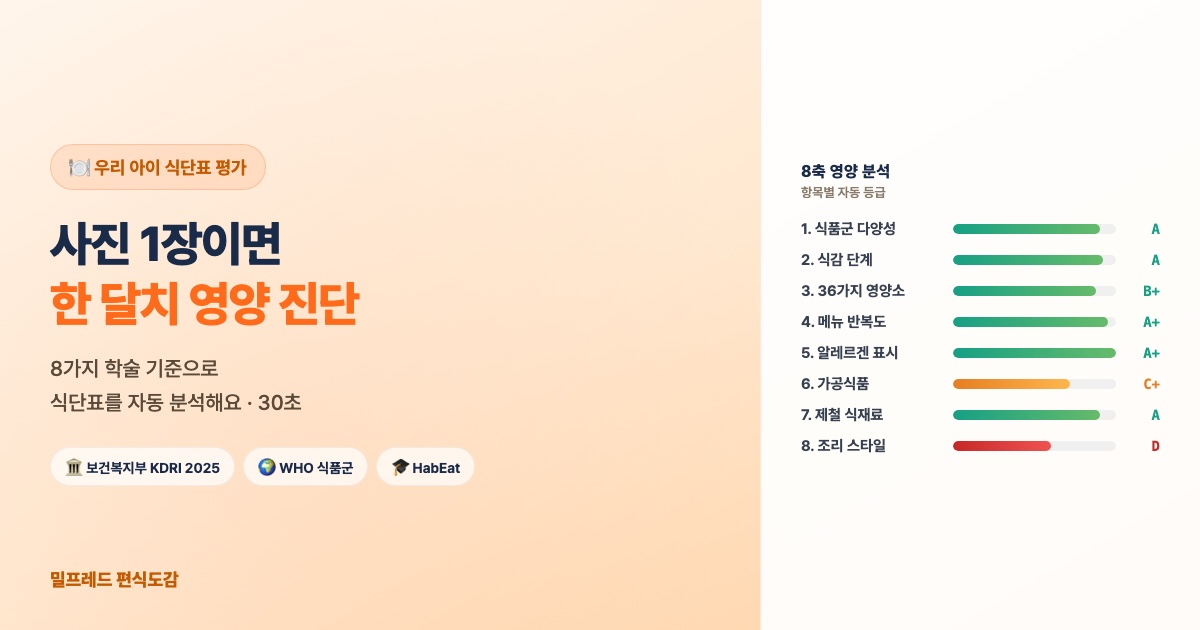
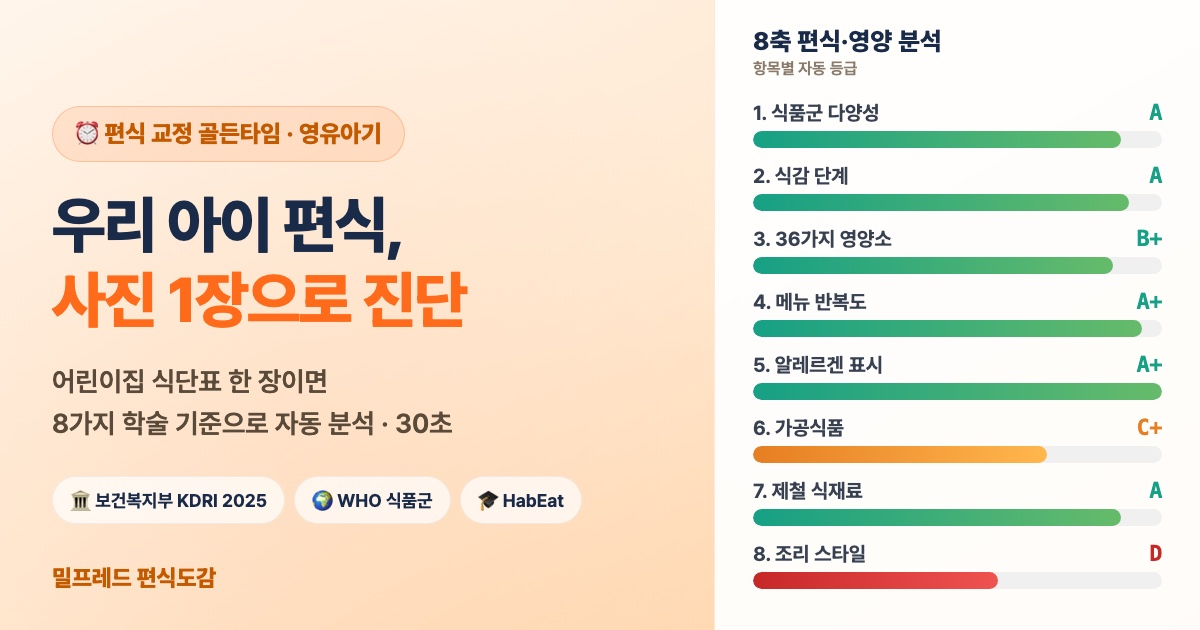
og: daycare-eval OG 이미지 개편 — 폰트 확대 + 편식 키워드 + 우측 분석결과 확대(라벨 게이지바 위 스택)
- 템플릿 폰트 전체 확대(h1 48→62 등), '편식 교정 골든타임'·'우리 아이 편식' 키워드 추가
- 우측 8축 패널 440→486px, 게이지바 두껍게, 라벨을 바 위로 스택해 확대
- og:image ?v=6 → ?v=7 (캐시 무효화)

diff --git a/samples/og-daycare-template.html b/samples/og-daycare-template.html
@@ -11,24 +11,25 @@
   .og::before{content:'';position:absolute;inset:0;background:radial-gradient(circle at 25% 75%,rgba(255,120,50,0.08),transparent 50%)}
 
   /* 왼쪽: 타이틀 */
-  .left{flex:1;padding:64px 50px;display:flex;flex-direction:column;justify-content:center;position:relative;z-index:1}
-  .tag{display:inline-block;background:rgba(255,107,26,0.12);color:#C45A00;padding:8px 18px;border-radius:100px;font-size:18px;font-weight:700;margin-bottom:24px;width:fit-content;border:1px solid rgba(255,107,26,0.25)}
-  .left h1{font-size:48px;font-weight:800;color:#1a2b4a;line-height:1.25;letter-spacing:-0.03em;margin-bottom:18px}
+  .left{flex:1;padding:58px 52px;display:flex;flex-direction:column;justify-content:center;position:relative;z-index:1}
+  .tag{display:inline-block;background:rgba(255,107,26,0.12);color:#C45A00;padding:11px 22px;border-radius:100px;font-size:24px;font-weight:800;margin-bottom:26px;width:fit-content;border:1px solid rgba(255,107,26,0.28)}
+  .left h1{font-size:62px;font-weight:800;color:#1a2b4a;line-height:1.22;letter-spacing:-0.03em;margin-bottom:22px}
   .left h1 .accent{color:#FF6B1A}
-  .left p{font-size:21px;color:#5a4a3a;font-weight:500;line-height:1.6;margin-bottom:28px}
-  .sources{display:flex;gap:8px;flex-wrap:wrap}
-  .src-pill{background:rgba(255,255,255,0.7);color:#1a2b4a;padding:7px 14px;border-radius:100px;font-size:14px;font-weight:700;border:1px solid rgba(0,0,0,0.05)}
-  .brand{position:absolute;bottom:40px;left:50px;font-size:18px;font-weight:800;color:#C45A00}
+  .left p{font-size:27px;color:#5a4a3a;font-weight:600;line-height:1.55;margin-bottom:32px}
+  .sources{display:flex;gap:9px;flex-wrap:wrap}
+  .src-pill{background:rgba(255,255,255,0.7);color:#1a2b4a;padding:9px 17px;border-radius:100px;font-size:18px;font-weight:700;border:1px solid rgba(0,0,0,0.05)}
+  .brand{position:absolute;bottom:38px;left:52px;font-size:23px;font-weight:800;color:#C45A00}
 
-  /* 오른쪽: 8축 등급표 세로 */
-  .right{width:440px;padding:44px 40px;background:rgba(255,255,255,0.92);border-left:1px solid rgba(255,107,26,0.15);display:flex;flex-direction:column;justify-content:center;position:relative;z-index:1}
-  .right .rt{font-size:16px;font-weight:800;color:#1a2b4a;margin-bottom:4px;letter-spacing:0.02em}
-  .right .rsub{font-size:13px;color:#8a7a6a;font-weight:600;margin-bottom:20px}
-  .axis{display:flex;align-items:center;gap:12px;margin-bottom:13px}
-  .axis .nm{font-size:15px;font-weight:700;color:#374151;width:140px;flex-shrink:0}
-  .axis .bar{flex:1;height:10px;background:#F0F0F0;border-radius:5px;overflow:hidden}
-  .axis .fill{height:100%;border-radius:5px}
-  .axis .gr{font-size:14px;font-weight:800;width:32px;text-align:right;font-family:ui-monospace,Menlo,monospace}
+  /* 오른쪽: 8축 등급표 — 라벨을 게이지바 위로 (스택형) */
+  .right{width:486px;padding:40px 38px;background:rgba(255,255,255,0.93);border-left:1px solid rgba(255,107,26,0.15);display:flex;flex-direction:column;justify-content:center;position:relative;z-index:1}
+  .right .rt{font-size:25px;font-weight:800;color:#1a2b4a;margin-bottom:3px;letter-spacing:0.01em}
+  .right .rsub{font-size:16px;color:#8a7a6a;font-weight:600;margin-bottom:22px}
+  .axis{margin-bottom:15px}
+  .axhead{display:flex;align-items:baseline;justify-content:space-between;margin-bottom:6px}
+  .axis .nm{font-size:20px;font-weight:700;color:#374151}
+  .axis .gr{font-size:22px;font-weight:800;font-family:ui-monospace,Menlo,monospace;letter-spacing:-0.02em}
+  .axis .bar{height:17px;background:#F0F0F0;border-radius:9px;overflow:hidden}
+  .axis .fill{height:100%;border-radius:9px}
   .A .fill{background:linear-gradient(90deg,#16A085,#66BB6A)} .A .gr{color:#16A085}
   .B .fill{background:linear-gradient(90deg,#F9A825,#FFD54F)} .B .gr{color:#F9A825}
   .C .fill{background:linear-gradient(90deg,#E67E22,#FFB74D)} .C .gr{color:#E67E22}
@@ -38,9 +39,9 @@
 <body>
 <div class="og">
   <div class="left">
-    <span class="tag">🍽 우리 아이 식단표 평가</span>
-    <h1>사진 1장이면<br><span class="accent">한 달치 영양 진단</span></h1>
-    <p>8가지 학술 기준으로<br>식단표를 자동 분석해요 · 30초</p>
+    <span class="tag">⏰ 편식 교정 골든타임 · 영유아기</span>
+    <h1>우리 아이 편식,<br><span class="accent">사진 1장으로 진단</span></h1>
+    <p>어린이집 식단표 한 장이면<br>8가지 학술 기준으로 자동 분석 · 30초</p>
     <div class="sources">
       <span class="src-pill">🏛 보건복지부 KDRI 2025</span>
       <span class="src-pill">🌍 WHO 식품군</span>
@@ -49,16 +50,16 @@
     <div class="brand">밀프레드 편식도감</div>
   </div>
   <div class="right">
-    <div class="rt">8축 영양 분석</div>
+    <div class="rt">8축 편식·영양 분석</div>
     <div class="rsub">항목별 자동 등급</div>
-    <div class="axis A"><span class="nm">1. 식품군 다양성</span><div class="bar"><div class="fill" style="width:90%"></div></div><span class="gr">A</span></div>
-    <div class="axis A"><span class="nm">2. 식감 단계</span><div class="bar"><div class="fill" style="width:92%"></div></div><span class="gr">A</span></div>
-    <div class="axis A"><span class="nm">3. 36가지 영양소</span><div class="bar"><div class="fill" style="width:88%"></div></div><span class="gr">B+</span></div>
-    <div class="axis A"><span class="nm">4. 메뉴 반복도</span><div class="bar"><div class="fill" style="width:95%"></div></div><span class="gr">A+</span></div>
-    <div class="axis A"><span class="nm">5. 알레르겐 표시</span><div class="bar"><div class="fill" style="width:100%"></div></div><span class="gr">A+</span></div>
-    <div class="axis C"><span class="nm">6. 가공식품</span><div class="bar"><div class="fill" style="width:72%"></div></div><span class="gr">C+</span></div>
-    <div class="axis A"><span class="nm">7. 제철 식재료</span><div class="bar"><div class="fill" style="width:90%"></div></div><span class="gr">A</span></div>
-    <div class="axis D"><span class="nm">8. 조리 스타일</span><div class="bar"><div class="fill" style="width:60%"></div></div><span class="gr">D</span></div>
+    <div class="axis A"><div class="axhead"><span class="nm">1. 식품군 다양성</span><span class="gr">A</span></div><div class="bar"><div class="fill" style="width:90%"></div></div></div>
+    <div class="axis A"><div class="axhead"><span class="nm">2. 식감 단계</span><span class="gr">A</span></div><div class="bar"><div class="fill" style="width:92%"></div></div></div>
+    <div class="axis A"><div class="axhead"><span class="nm">3. 36가지 영양소</span><span class="gr">B+</span></div><div class="bar"><div class="fill" style="width:88%"></div></div></div>
+    <div class="axis A"><div class="axhead"><span class="nm">4. 메뉴 반복도</span><span class="gr">A+</span></div><div class="bar"><div class="fill" style="width:95%"></div></div></div>
+    <div class="axis A"><div class="axhead"><span class="nm">5. 알레르겐 표시</span><span class="gr">A+</span></div><div class="bar"><div class="fill" style="width:100%"></div></div></div>
+    <div class="axis C"><div class="axhead"><span class="nm">6. 가공식품</span><span class="gr">C+</span></div><div class="bar"><div class="fill" style="width:72%"></div></div></div>
+    <div class="axis A"><div class="axhead"><span class="nm">7. 제철 식재료</span><span class="gr">A</span></div><div class="bar"><div class="fill" style="width:90%"></div></div></div>
+    <div class="axis D"><div class="axhead"><span class="nm">8. 조리 스타일</span><span class="gr">D</span></div><div class="bar"><div class="fill" style="width:60%"></div></div></div>
   </div>
 </div>
 </body>

diff --git a/daycare-eval.html b/daycare-eval.html
@@ -10,8 +10,8 @@
 <meta property="og:locale" content="ko_KR">
 <meta property="og:site_name" content="밀프레드 편식도감">
 <meta property="og:url" content="https://www.mealfred.com/daycare-eval.html">
-<meta property="og:image" content="https://www.mealfred.com/samples/og-daycare-eval.jpg?v=6">
-<meta property="og:image:secure_url" content="https://www.mealfred.com/samples/og-daycare-eval.jpg?v=6">
+<meta property="og:image" content="https://www.mealfred.com/samples/og-daycare-eval.jpg?v=7">
+<meta property="og:image:secure_url" content="https://www.mealfred.com/samples/og-daycare-eval.jpg?v=7">
 <meta property="og:image:width" content="1200">
 <meta property="og:image:height" content="630">
 <meta property="og:image:type" content="image/jpeg">
@@ -19,7 +19,7 @@
 <meta name="twitter:card" content="summary_large_image">
 <meta name="twitter:title" content="우리 아이 식단표 한 번 평가해 보실래요?">
 <meta name="twitter:description" content="WHO·KDRI·NOVA 8가지 학술 기준 · 30초 평가 · 가정 보충 가이드">
-<meta name="twitter:image" content="https://www.mealfred.com/samples/og-daycare-eval.jpg?v=6">
+<meta name="twitter:image" content="https://www.mealfred.com/samples/og-daycare-eval.jpg?v=7">
 <meta name="description" content="우리 아이 유치원·초1·초2 식단표 사진 1장으로 한 달치 영양 진단. 만 3-7세 대상 WHO·HabEat·KDRI·NOVA·농진청 8가지 학술 기준. 익명 분석.">
 <link rel="canonical" href="https://www.mealfred.com/daycare-eval.html">
 <link rel="preconnect" href="https://cdn.jsdelivr.net">